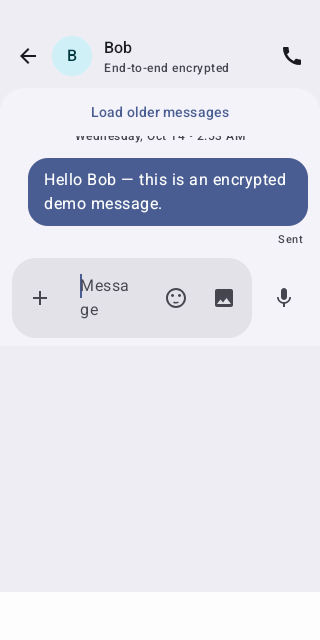
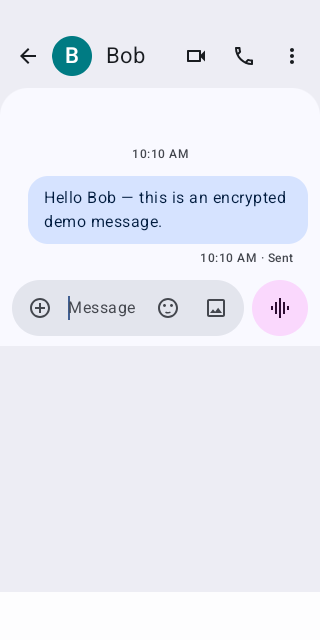
README: describe the current app; refresh screenshots from CI run 38884198180

diff --git a/README.md b/README.md
@@ -3,101 +3,116 @@
 [![Android CI](https://github.com/hanthor/send-android/actions/workflows/android.yml/badge.svg)](https://github.com/hanthor/send-android/actions/workflows/android.yml)
 [![License: AGPL-3.0-only](https://img.shields.io/badge/License-AGPL--3.0--only-blue.svg)](LICENSE)
 
-**Messages that stay yours.** Send is a standalone Android Matrix client with a
-Google Messages–style Material 3 interface: expressive, fast, and end-to-end
-encrypted by default. It uses the Matrix Rust SDK (Kotlin/Android binding) for
-messaging and Element Call Android for native MatrixRTC audio calls. Only
-end-to-end encrypted rooms can be opened for messaging.
+**Messages that stay yours.** Send is an Android [Matrix](https://matrix.org)
+client that looks and behaves like Google Messages — and every conversation is
+end-to-end encrypted. It is built on the Matrix Rust SDK, with Element Call for
+voice and video calls. Unencrypted rooms are never opened.
 
-| Onboarding hero | Conversations | Encrypted chat |
+| Conversations | Chat | Details |
 |---|---|---|
-| [![Pixel onboarding hero](docs/screenshots/onboarding-hero.png)](docs/screenshots/onboarding-hero.png) | [![Conversation list](docs/screenshots/conversations.png)](docs/screenshots/conversations.png) | [![Encrypted conversation](docs/screenshots/conversation.png)](docs/screenshots/conversation.png) |
+| [![Conversation list](docs/screenshots/conversations.png)](docs/screenshots/conversations.png) | [![Encrypted conversation](docs/screenshots/conversation.png)](docs/screenshots/conversation.png) | [![Group details](docs/screenshots/details.png)](docs/screenshots/details.png) |
 
 ## Features
 
-- **Pixel-style onboarding** — animated Material scallop hero with orbital chat
-  bubbles and an E2EE lock badge, then a one-tap setup card.
-- **No `https://` typing** — enter a bare server (`reilly.asia`), a full Matrix
-  ID (`@you:reilly.asia`), or a full URL. Connection details resolve via
-  `.well-known/matrix/client`, with `https://<server>` fallback.
-- **Password-manager friendly** — a full Matrix ID in the username field
-  supplies the server automatically.
-- **Three ways in** — QR-code pairing, Single Sign-On, or username + password.
-- **Google Messages look** — floating pill search with live filtering,
-  deterministic pastel contact avatars, grouped chat bubbles (20 dp outer /
-  4 dp touching corners), filled pill composer, horizontal reaction bar with
-  overlapping reaction pills, dark-mode dynamic color.
-- **Encrypted everything** — unencrypted rooms stay hidden; reactions,
-  pagination, and outgoing audio calls included.
-- **Messages features on Matrix** — attach files or photos/videos from the
-  composer, hold the round button to record a voice message, play voice clips
-  and open media inline, conversation snippets with relative times and unread
-  badges cleared by read receipts, and encrypted group creation.
-- **Account safety** — the account menu holds Security and Sign out: set up
-  recovery (key backup, recovery key shown once), verify a new session with
-  emoji from another device or with the recovery key, and see
-  "Waiting for this message…" bubbles that explain why a message can't be
-  decrypted yet and how to fix it. Sign out wipes the local encrypted store.
+**Messaging**
+- Text, photos, videos, files and hold-to-record voice messages (slide up to
+  record hands-free), with an in-app photo/video viewer.
+- Long-press for reactions and Reply, Forward, Copy, Edit, Delete, Select more
+  and Info; swipe a message to reply.
+- Typing dots, "Read" / "Seen by N" receipts, link previews, a full emoji
+  picker and search inside a conversation.
+- Encrypted direct chats and groups; star messages and find them later.
 
-## Signing in
+**Conversation list**
+- Snippets, relative times and unread badges; search.
+- Swipe to archive, long-press to select, pin, mark unread, mute, delete or
+  block.
 
-| Setup card | New encrypted chat | Reactions |
+**Calls and notifications**
+- Voice and video calls through Element Call (MatrixRTC), with a full-screen
+  incoming-call screen, Answer/Decline and "Calling…" / "Call declined".
+- Conversation notifications with inline Reply and Mark as read, delivered by
+  UnifiedPush or periodic background sync; per-conversation mute.
+- Share text, photos and files into Send from other apps.
+
+**Account and security**
+- Sign in with a QR code, SSO or password. Type a bare server
+  (`reilly.asia`), a Matrix ID (`@you:reilly.asia`) or a URL — the server is
+  found via `.well-known`, and password managers can fill the Matrix ID alone.
+- Key backup with a recovery key, emoji verification of new devices,
+  "Waiting for this message…" explanations for undecryptable messages, a
+  device list with remote sign-out, and an encrypted on-device store.
+
+**Look and feel**
+- Google Messages layout and palette, light and dark themes, Messages-derived
+  motion (screen transitions, springs, shared avatar, predictive back,
+  collapsing Start chat button), two-pane layout on tablets and foldables,
+  TalkBack labels and 200% font support.
+
+## Screenshots
+
+| Message actions | Swipe to reply | Voice message |
 |---|---|---|
-| [![Homeserver setup](docs/screenshots/sign-in.png)](docs/screenshots/sign-in.png) | [![New encrypted conversation](docs/screenshots/new-chat.png)](docs/screenshots/new-chat.png) | [![Reaction bar](docs/screenshots/reaction-picker.png)](docs/screenshots/reaction-picker.png) |
+| [![Long-press actions](docs/screenshots/message-actions.png)](docs/screenshots/message-actions.png) | [![Reply preview](docs/screenshots/reply.png)](docs/screenshots/reply.png) | [![Locked voice recording](docs/screenshots/voice.png)](docs/screenshots/voice.png) |
 
-1. Tap **Get started** (defaults to `matrix.org`, or pick a preset chip).
-2. Type any of: `reilly.asia`, `@you:reilly.asia`, `https://matrix.example.org`.
-3. Sign in with a QR code, SSO, or password — then start an encrypted chat.
-
-## Live demo (disposable Synapse)
-
-CI spins up a local Synapse, seeds demo accounts, creates an encrypted room,
-and sends a real message through the Matrix Rust SDK:
-
-| Create chat | Demo list | Demo message |
+| Link preview | Incoming call | Notification |
 |---|---|---|
-| [![Create encrypted conversation with Bob](docs/screenshots/demo-create-chat.png)](docs/screenshots/demo-create-chat.png) | [![Live demo conversation list](docs/screenshots/demo-conversations.png)](docs/screenshots/demo-conversations.png) | [![Live encrypted message](docs/screenshots/demo-conversation.png)](docs/screenshots/demo-conversation.png) |
+| [![Link preview card](docs/screenshots/link-preview.png)](docs/screenshots/link-preview.png) | [![Incoming call](docs/screenshots/incoming-call.png)](docs/screenshots/incoming-call.png) | [![Message notification](docs/screenshots/notification.png)](docs/screenshots/notification.png) |
 
-All PNGs are captured on the Android emulator at original resolution. Full-size
-sets ship with every green CI run as the `Send-UI-Screenshots` artifact.
+| Select conversations | Device verification | Settings |
+|---|---|---|
+| [![Selection mode](docs/screenshots/selection.png)](docs/screenshots/selection.png) | [![Emoji verification](docs/screenshots/verification.png)](docs/screenshots/verification.png) | [![Settings](docs/screenshots/settings.png)](docs/screenshots/settings.png) |
+
+| Welcome | Sign in | Dark theme |
+|---|---|---|
+| [![Onboarding](docs/screenshots/onboarding-hero.png)](docs/screenshots/onboarding-hero.png) | [![Homeserver setup](docs/screenshots/sign-in.png)](docs/screenshots/sign-in.png) | [![Dark conversation](docs/screenshots/dark.png)](docs/screenshots/dark.png) |
+
+[![Tablet two-pane layout](docs/screenshots/tablet.png)](docs/screenshots/tablet.png)
+
+Every image is captured by CI on the Android emulator from the real app — no
+mockups. Each green run uploads the full set as the `Send-UI-Screenshots`
+artifact; [the walkthrough](docs/SCREENSHOT_WALKTHROUGH.md) explains them.
+
+## Install
+
+Releases are published on the [Releases page](https://github.com/hanthor/send-android/releases)
+with per-ABI APKs (arm64-v8a for most phones), an AAB and SHA-256 sums.
+Builds signed with a key labelled `UNOFFICIAL-ci-signed` are test builds only.
 
 ## Build and verify
 
-Builds and automated tests run in GitHub Actions (see
-[.github/workflows/android.yml](.github/workflows/android.yml)):
+Everything is built and tested in GitHub Actions:
 
-- `./gradlew :app:assembleDebug :app:testDebugUnitTest :app:lintDebug`
-- Emulator instrumentation against disposable Synapse: real password sign-in,
-  bare-server and Matrix-ID login enablement, encrypted-room creation,
-  encrypted message send, reactions, recovery setup, emoji verification of a
-  second device, history restore from key backup, sign-out, and screenshot
-  capture.
-- Green runs upload the debug APK (`Send-debug-APK`), test results
-  (`Send-Android-Test-Results`), and screenshots (`Send-UI-Screenshots`).
+- **[Android CI](.github/workflows/android.yml)** — assemble, unit tests, lint,
+  then the full instrumentation suite on an emulator against a disposable
+  Synapse with LiveKit/MatrixRTC (two test users, real encryption, calls,
+  notifications, push registration, recovery and verification).
+- **[Release](.github/workflows/release.yml)** — on a `v*` tag: R8-shrunk
+  per-ABI APKs and AAB, the full suite run on a minified build, then a GitHub
+  Release with the mapping file.
+- **[Google Messages comparison](.github/workflows/messages-comparison.yml)** —
+  drives Google Messages and Send on the same emulator and reports side-by-side
+  screenshots and measured differences.
 
 ## Docs
 
-- [Feature screenshot walkthrough](docs/SCREENSHOT_WALKTHROUGH.md) — automated scenarios and full-size screenshots.
-- [DEVELOPMENT.md](DEVELOPMENT.md) — disposable local Synapse backend and UI workflow.
+- [ROADMAP.md](ROADMAP.md) — what's done, phase by phase, with the CI runs that verify it.
 - [IMPLEMENTATION_STATUS.md](IMPLEMENTATION_STATUS.md) — implemented paths and known limits.
-- [ANDROID_INTEGRATIONS.md](ANDROID_INTEGRATIONS.md) — staged native-platform backlog.
-- [PRIVACY.md](PRIVACY.md) — privacy policy: what leaves the device and where it goes, what stays on it, and
-  why each permission is needed. The app shows the same text under About & licenses → Privacy policy.
-- [fastlane/metadata/android/en-US](fastlane/metadata/android/en-US) — store listing for F-Droid and Google
-  Play (fastlane layout): title, short and full description, phone screenshots from CI, and per-release
-  changelogs named `changelogs/<versionCode>.txt`.
+- [DEVELOPMENT.md](DEVELOPMENT.md) — local Synapse/MatrixRTC backend and comparison tooling.
+- [ANDROID_INTEGRATIONS.md](ANDROID_INTEGRATIONS.md) — Android surfaces still to come (bubbles, widgets, Android Auto).
+- [PRIVACY.md](PRIVACY.md) — what leaves the device and why; also shown in the app under About.
+- [docs/accessibility.md](docs/accessibility.md) — accessibility checks and contrast ratios.
+- [fastlane/metadata/android/en-US](fastlane/metadata/android/en-US) — store listing for F-Droid and Google Play.
 
 ## License
 
 Send is licensed under the **GNU Affero General Public License v3.0 only**
 (`AGPL-3.0-only`). See [LICENSE](LICENSE) for the full text.
 
-This license was chosen because the app links Element Call Android
-(`v0.1.0-rc.7`) and the Matrix Rust RTC core, which are dual-licensed
-`AGPL-3.0-only OR LicenseRef-Element-Commercial` by Element Creations Ltd.;
-Send is distributed under the AGPL-3.0-only option. The public repository at
-<https://github.com/hanthor/send-android> is the Corresponding Source for
-distributed builds. Other bundled libraries (Matrix Rust SDK, ZXing Android
-Embedded, AndroidX) are Apache-2.0; see
+The app links Element Call Android and the Matrix Rust RTC core, which are
+dual-licensed `AGPL-3.0-only OR LicenseRef-Element-Commercial` by Element
+Creations Ltd.; Send is distributed under the AGPL-3.0-only option. This
+repository is the Corresponding Source for distributed builds. Other bundled
+libraries are listed in
 [app/src/main/assets/THIRD_PARTY_NOTICES.txt](app/src/main/assets/THIRD_PARTY_NOTICES.txt)
-and the in-app "About & licenses" dialog.
+and in the app under About & licenses.
